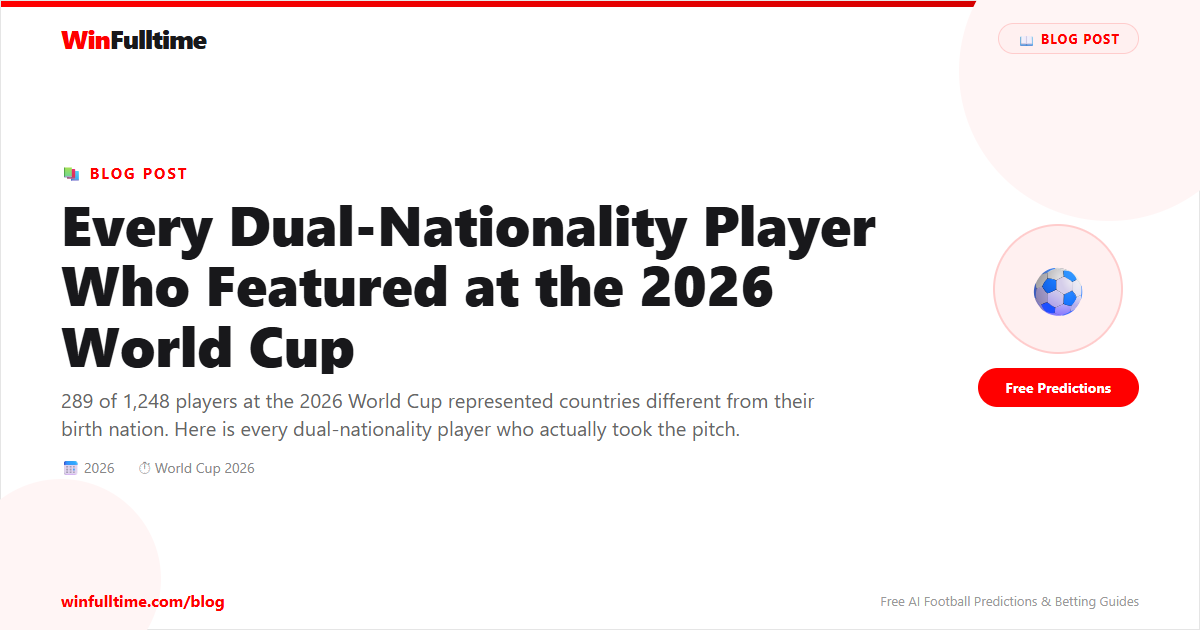
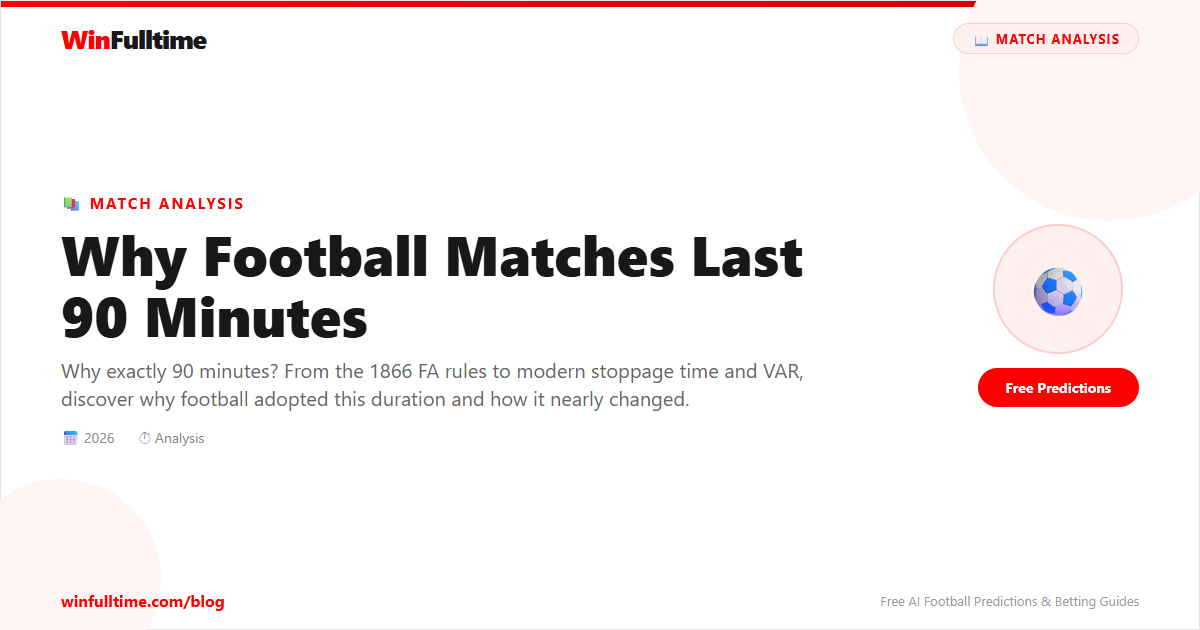
Update sitemap, blog index, service worker and thumbnail sample

Changed region(s): [[0.0308, 0.2413, 0.74, 0.754], [0.8017, 0.0302, 0.925, 0.0905]]

diff --git a/public/index.html b/public/index.html
@@ -164,9 +164,10 @@ gtag('config', 'G-HMGZMW9EDP');
  <a href="/predictions/btts" id="tab-btts" class="tab-btn">BTTS YES</a>
   <a href="/predictions/btts-no" id="tab-bttsno" class="tab-btn">BTTS NO</a>
   <a href="/predictions/corners" id="tab-corners" class="tab-btn">Corners</a>
-  <a href="/predictions/cards" id="tab-cards" class="tab-btn">Cards</a>
-
-</div>
+ <a href="/predictions/cards" id="tab-cards" class="tab-btn">Cards</a>
+ <a href="/predictions/in-play" id="tab-in-play" class="tab-btn">In-Play</a>
+
+</div>
 
  <div class="stats-bar" id="statsBar">
  <div class="stat-item">

diff --git a/public/sw.js b/public/sw.js
@@ -22,6 +22,7 @@ const STATIC_ASSETS = [
   '/predictions/corners.html',
   '/predictions/cards.html',
   '/predictions/unbeaten.html'
+  ,'/predictions/in-play.html'
 ];
 
 self.addEventListener('install', event => {
